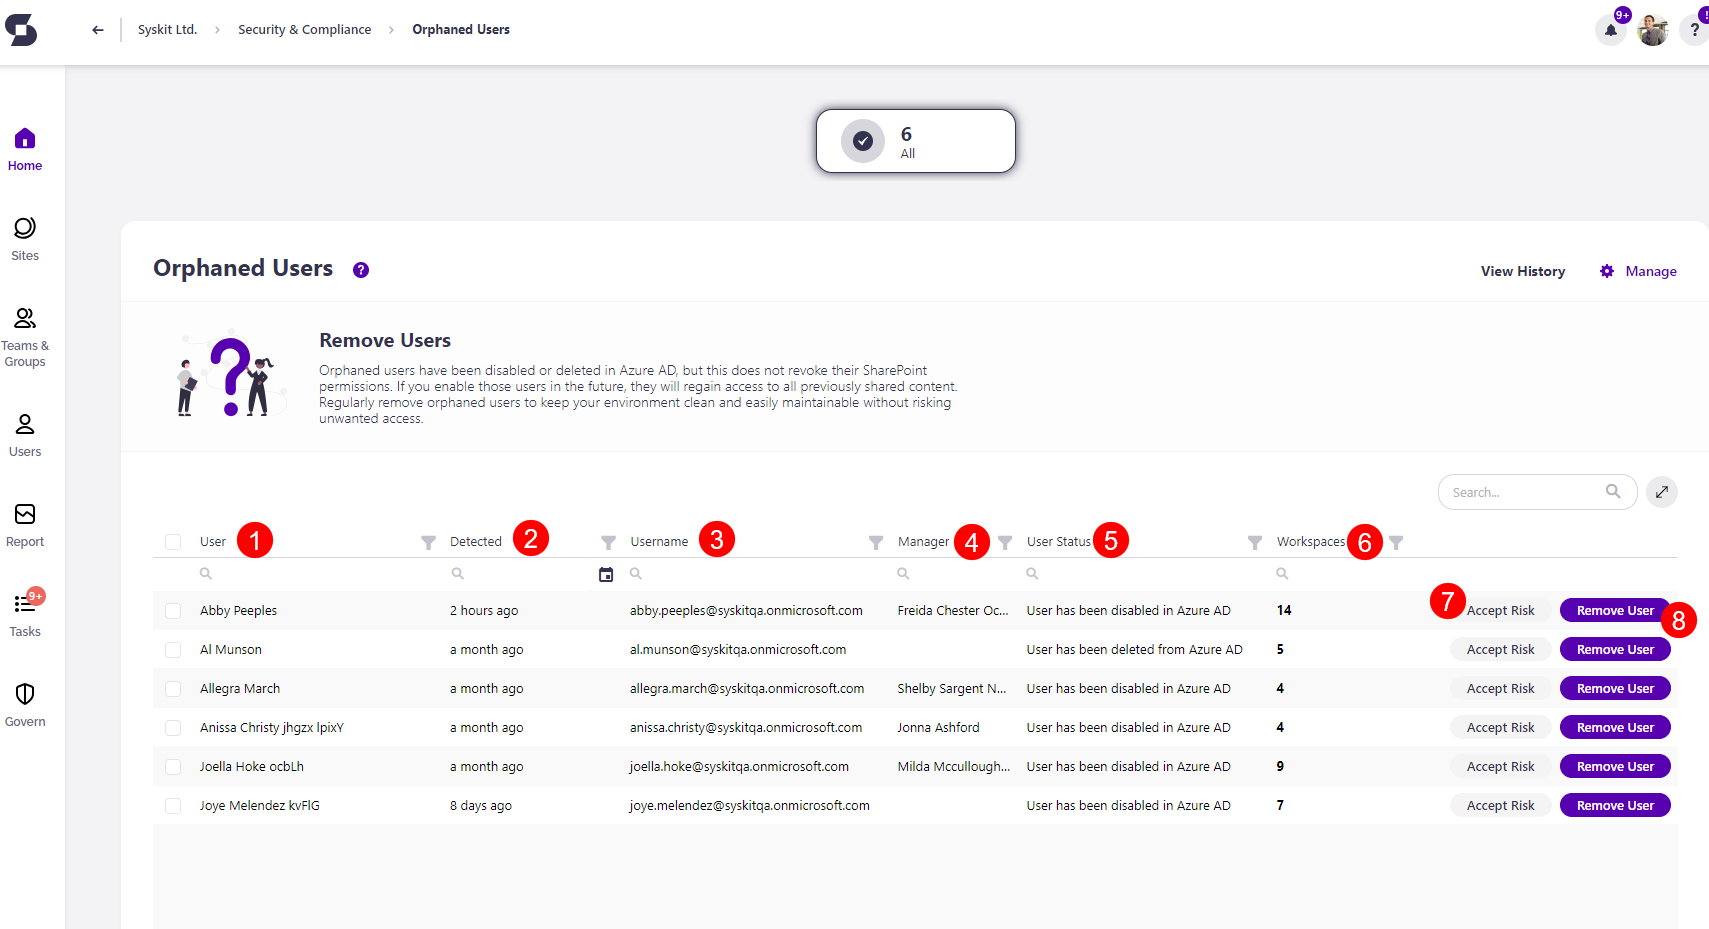
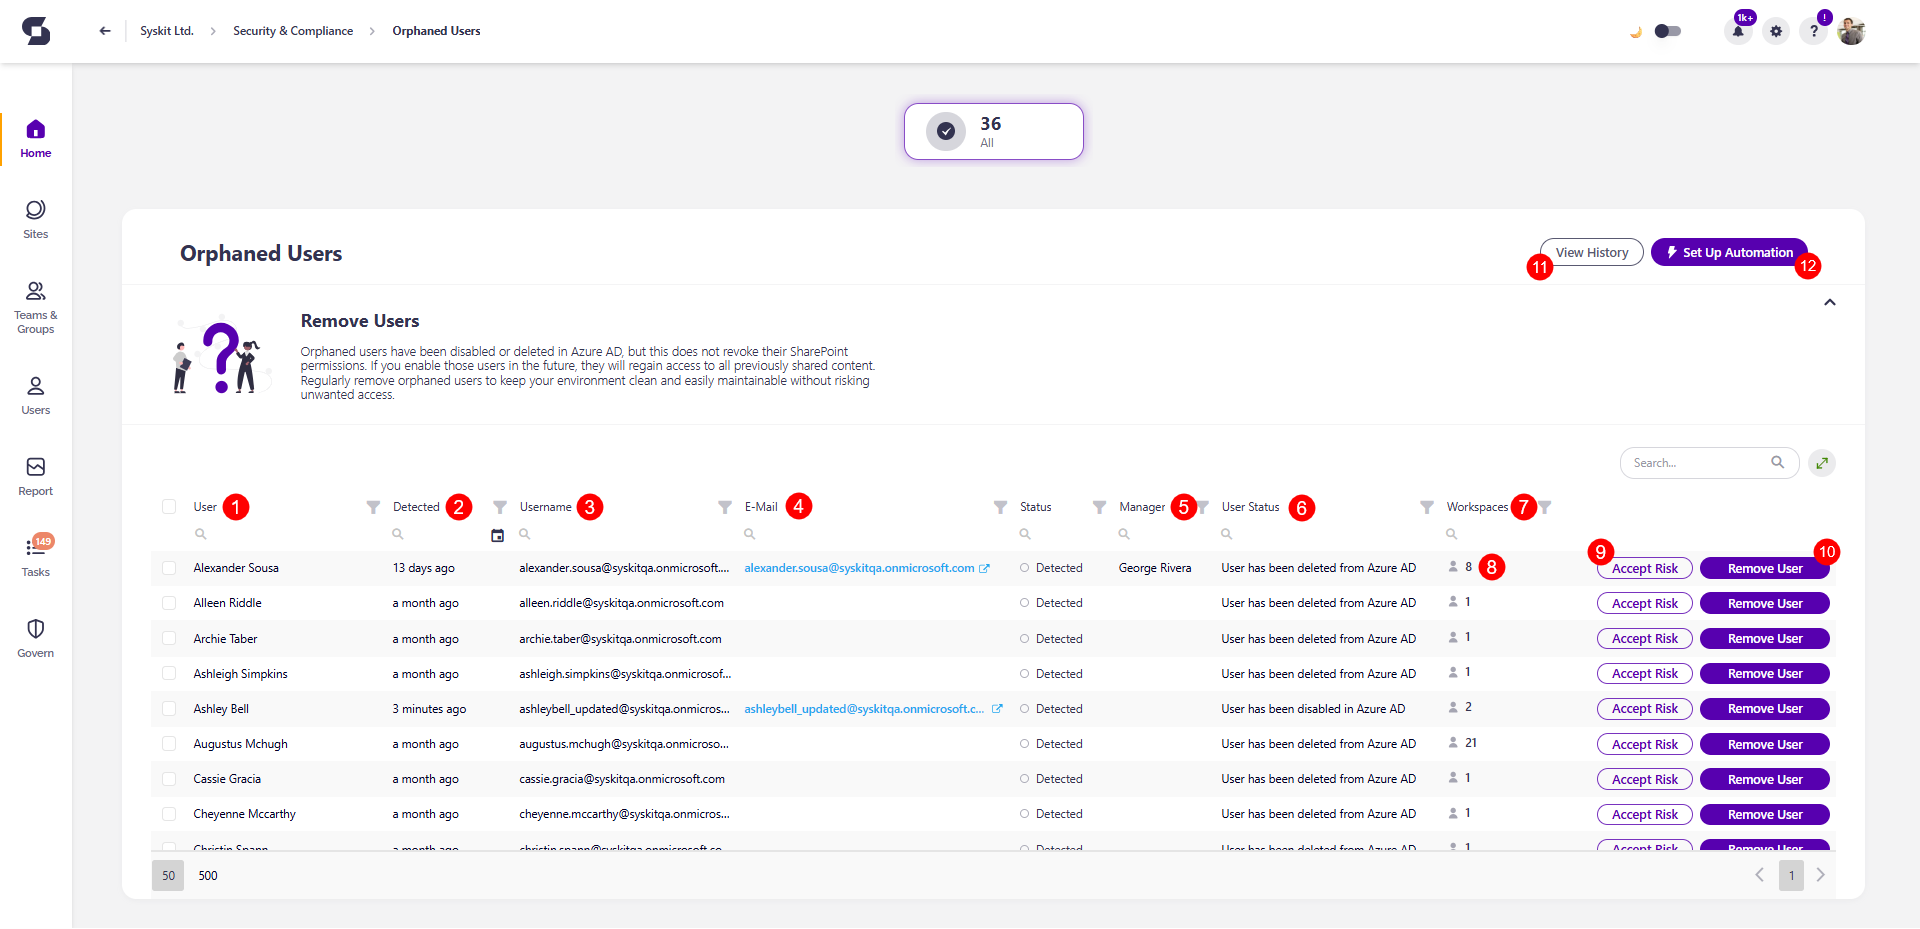
orphaned users s&c article update

diff --git a/docs/governance-and-automation/security-compliance-checks/orphaned-users.md b/docs/governance-and-automation/security-compliance-checks/orphaned-users.md
@@ -4,46 +4,71 @@ description: This article provides information on the Orphaned Users report.
 
 # Orphaned Users
 
-Syskit Point detects users that have been disabled or deleted in Microsoft Entra ID but still have access to SharePoint content, which could lead to security risks in case they become active again. 
+Syskit Point detects users who have been disabled or deleted in Microsoft Entra ID but still have access to SharePoint content, which could lead to security risks if they become active again. 
 
-Orphaned users are **all the users that have been blocked or deleted from Microsoft Entra ID** and:
+Orphaned users are **all the users who have been blocked or deleted from Microsoft Entra ID** and:
   * Have access to workspace content, or
-  * Had access to workspace content and visited the SharePoint site containing that content but lost access in the meantime
-  * [For more details on Orphaned Users in Syskit Point, take a look at the FAQ article.](../../faq/orphaned-users.md)
+  * Had access to workspace content and visited the SharePoint site containing that content, but lost access in the meantime
+
+ [For more details on Orphaned Users in Syskit Point, take a look at the FAQ article.](../../faq/orphaned-users.md)
+
+## Orphaned Users Policy 
 
 The Orphaned Users policy is **a tenant-wide policy, and it cannot have task delegation enabled**. That means that no tasks are created to resolve this policy vulnerability, and no emails are sent to collaborators.
 
-The orphaned users **are still detected** and shown on the Security and Compliance dashboard. **This means that Syskit Point detects a vulnerability on a workspace** based on the applied policy, but it does not create tasks or send any emails to collaborators. 
+The Orphaned Users policy vulnerability **is still detected** and shown on the Security and Compliance dashboard. **This means that Syskit Point detects the vulnerability in a workspace** based on the policy, but it does not create tasks or send any emails to collaborators. 
 
-The purpose of this is to assist Syskit Point admins by
-bringing awareness of potential issues in their Microsoft 365 environment. 
+There are 2 options on how to resolve the detected vulnerability:
+* **Manually** - admins remove orphaned users from the Orphaned Users report accessed from the Security & Compliance dashboard.
+* **Automatically** - Syskit Point removes orphaned users from workspaces; admins can define if blocked, deleted, or both types of orphaned users are removed.
+
+[Use this link to find more information on the Orphaned Users Policy.](../automated-workflows/orphaned-users-admin.md)
+
+## Orphaned Users Report
+
+Here, you can find more details if you decide to manually resolve the Orphaned Users vulnerability.
 
 On the Security & Compliance dashboard, click the **Orphaned Users** button to see the report.
 
-The Orphaned Users screen opens, showing a list of all **users that have the sign-in blocked or are deleted from Microsoft Entra ID** without having their SharePoint permissions revoked.
+The Orphaned Users screen opens, showing a list of all **users who have the sign-in blocked or are deleted from Microsoft Entra ID** without having their SharePoint permissions revoked.
 
 The report itself provides information on:
   * **User (1)** name
   * **Detected (2)** - when the policy vulnerability was detected
-  * **Username (3)** - the email of the blocked users
-  * **Manager (4)** - the name of the person that manages this user
-  * **User Status (5)** - status of the user (removed or disabled)
-  * **Workspaces (6)** - the number of workspaces this user is a member of
+  * **Username (3)** - the username of the orphaned user
+  * **E-Mail (4)** - the email of the orphaned user
+  * **Manager (5)** - the name of the person who manages the orphaned user
+  * **User Status (6)** - status of the user (deleted or blocked)
+  * **Workspaces (7)** - the number of workspaces this user has access to
 
 You can complete the following actions for the policy vulnerability:
-  * **Accept Risk (7)** - this means you will close the policy vulnerability without making any changes to the current state of the workspace
-  * **Remove User (8)** - this will remove the user from the SharePoint site and connected groups, and resolve the policy vulnerability
+* **Click the workspaces number (8)** to open the Orphaned Users report, showing a list of workspaces where the orphaned user still has access.
+* **Accept Risk (9)** - This means you will close the policy vulnerability without making any changes to the current state of the workspace.
+* **Remove User (10)** - this will remove the user from the SharePoint site and connected groups, and resolve the policy vulnerability.
 
-By **selecting all (9)** or more than one user, you can perform the bulk action for **Remove User (10)** or **Accept Risk (11)**. 
+Here, you can also:
+* **View History (11)** of all resolved vulnerabilities
+  * For each user, you can see details about the performed removal actions and the policy vulnerability resolution.
+* **Set Up Automation (12)** for the Orphaned Users policy.
+  * Click the button to open the Orphaned Users policy settings and select from one of the available automation options.
+  * Syskit Point can automatically remove deleted, blocked, or both types of orphaned users.
+
+:::info
+* **Policy vulnerability is not detected for OneDrive workspaces where the Primary admin is blocked or deleted**, as this is expected during user offboarding and similar scenarios.
+* **Primary admins cannot be deleted from a workspace** automatically. This requires manual intervention and replacing the deleted or blocked Primary admin with an active user. 
+:::
+
+
 
 ![Orphaned Users](../../../static/img/security-compliance-checks-orphaned-users.png)
 
-![Orphaned Users - Bulk](../../../static/img/security-compliance-checks-orphaned-users-bulk.png)
+By **selecting multiple or all users**, you can perform Remove User or Accept Risk actions in bulk.
 
 **Clicking the Remove User** action opens the Remove User dialogue. 
-  * To replace the user as Primary Admin, **select the checkbox (1)** that states *If the user is a Primary Admin replace them with*
-    * If the selected user is a Primary Admin on chosen sites/OneDrive, Microsoft does not allow their removal. In order to remove them, they have to be replaced as Primary Admin with an active user
-  * Once selected, a space is provided where you should **type the name or email of the user (2)** you want as the new Primary Admin
+  * To replace the user as Primary Admin, **select the checkbox (1)** that states *If the user is a Primary Admin replace them with*.
+    * If the selected user is a Primary Admin on chosen sites/OneDrive, Microsoft does not allow their removal. In order to remove them, they have to be replaced as Primary Admin with an active user.
+  * Once selected, a space is provided where you should **type the name or email of the user (2)** you want as the new Primary Admin.
 * **Type REMOVE (3)** in the space provided and **click Remove (4)** to finalize your decision. 
 
 ![Orphaned Users - Remove User Action](../../../static/img/security-compliance-checks-orphaned-users-remove-user.png)
+
